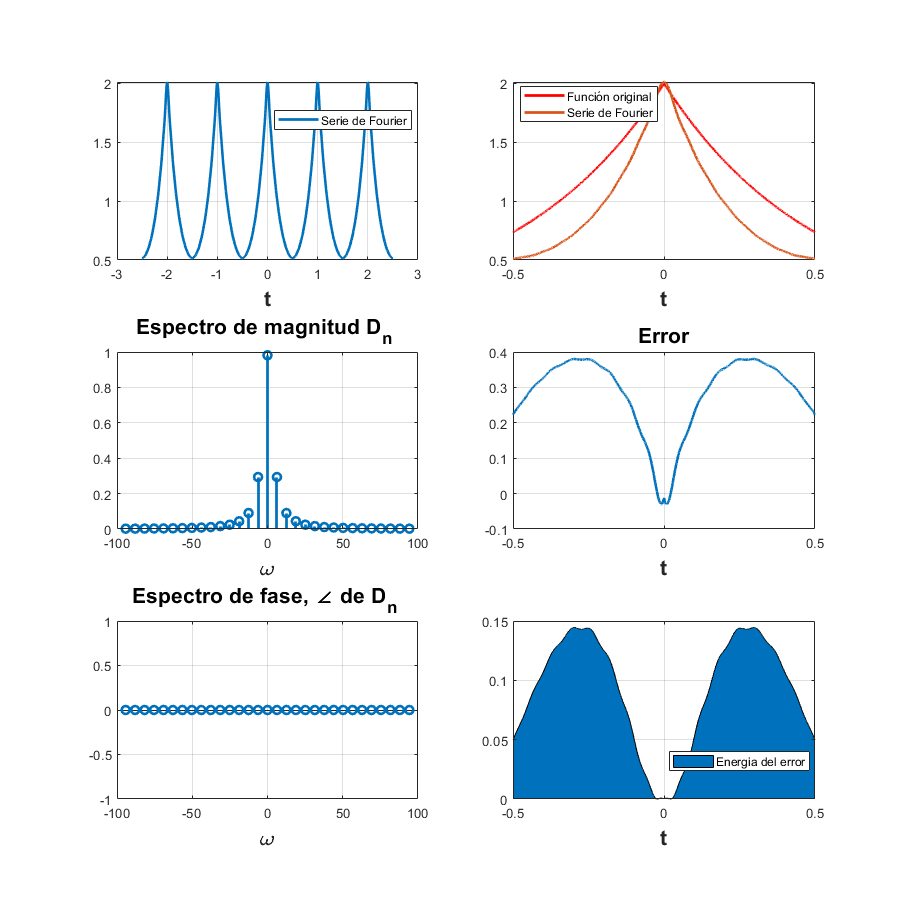
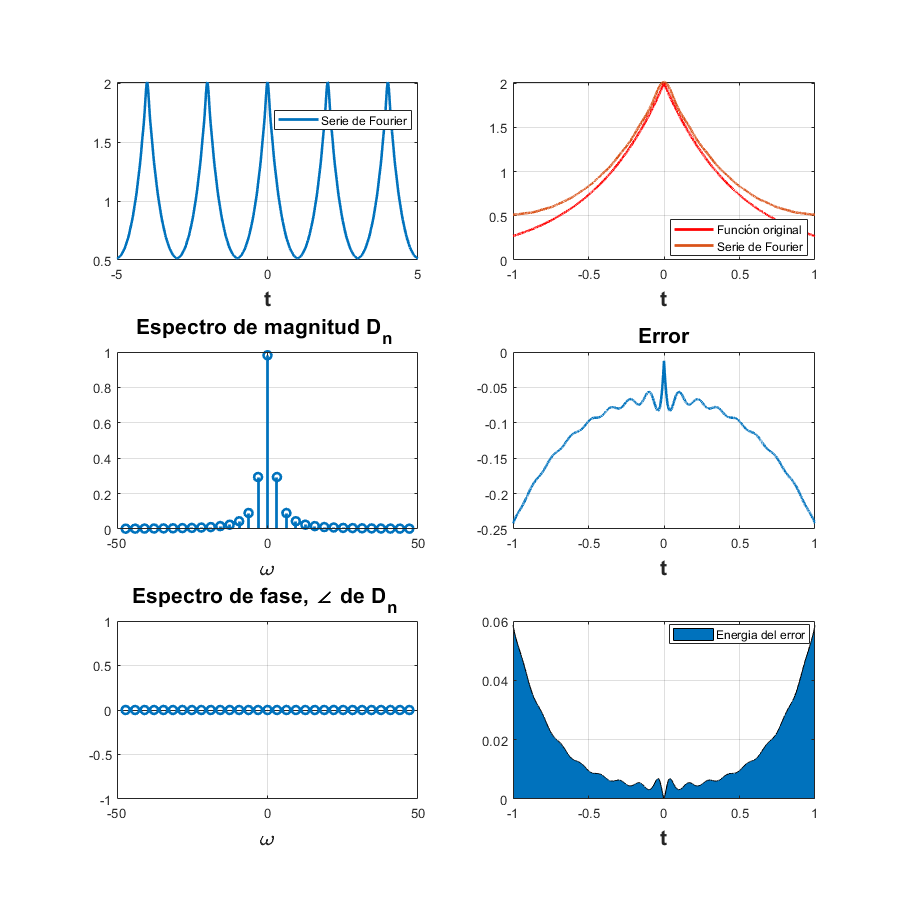
Add files via upload

diff --git a/PR07/html/ASySPrac07ArturoPortillo.html b/PR07/html/ASySPrac07ArturoPortillo.html
@@ -254,12 +254,12 @@ f =
 <img src="PR07_eq00358142354497094839.png" alt="$$ x(t) = \sum_{n=-\infty}^\infty \frac {4(1-e^{-2}cos(\pi n))} {4 + n^2 \pi ^2} e^{\pi njt}  $$"></p>
 <pre class="codeinput">d0=(4*(1-exp(-4)))/4;
 dn=@(n) (4*(1-(exp(-4)*cos(pi*n))))/(4+(pi^2)*(n^2));
-t0=-0.5;
-tf=0.5;
+t0=-1;
+tf=1;
 f=@(t) 2.*exp(-2.*abs(t))
 armo=15;
-a=-2.5;
-b=2.5;
+a=-5;
+b=5;
 sfc(t0,tf,dn,d0,f,armo,a,b,5)
 </pre>
 <pre class="codeoutput">
@@ -402,12 +402,12 @@ sfc(t0,tf,dn,d0,f,armo,a,b,4)
 %
 d0=(4*(1-exp(-4)))/4;
 dn=@(n) (4*(1-(exp(-4)*cos(pi*n))))/(4+(pi^2)*(n^2));
-t0=-0.5;
-tf=0.5;
+t0=-1;
+tf=1;
 f=@(t) 2.*exp(-2.*abs(t))
 armo=15;
-a=-2.5;
-b=2.5;
+a=-5;
+b=5;
 sfc(t0,tf,dn,d0,f,armo,a,b,5)
 ##### SOURCE END #####
 -->
